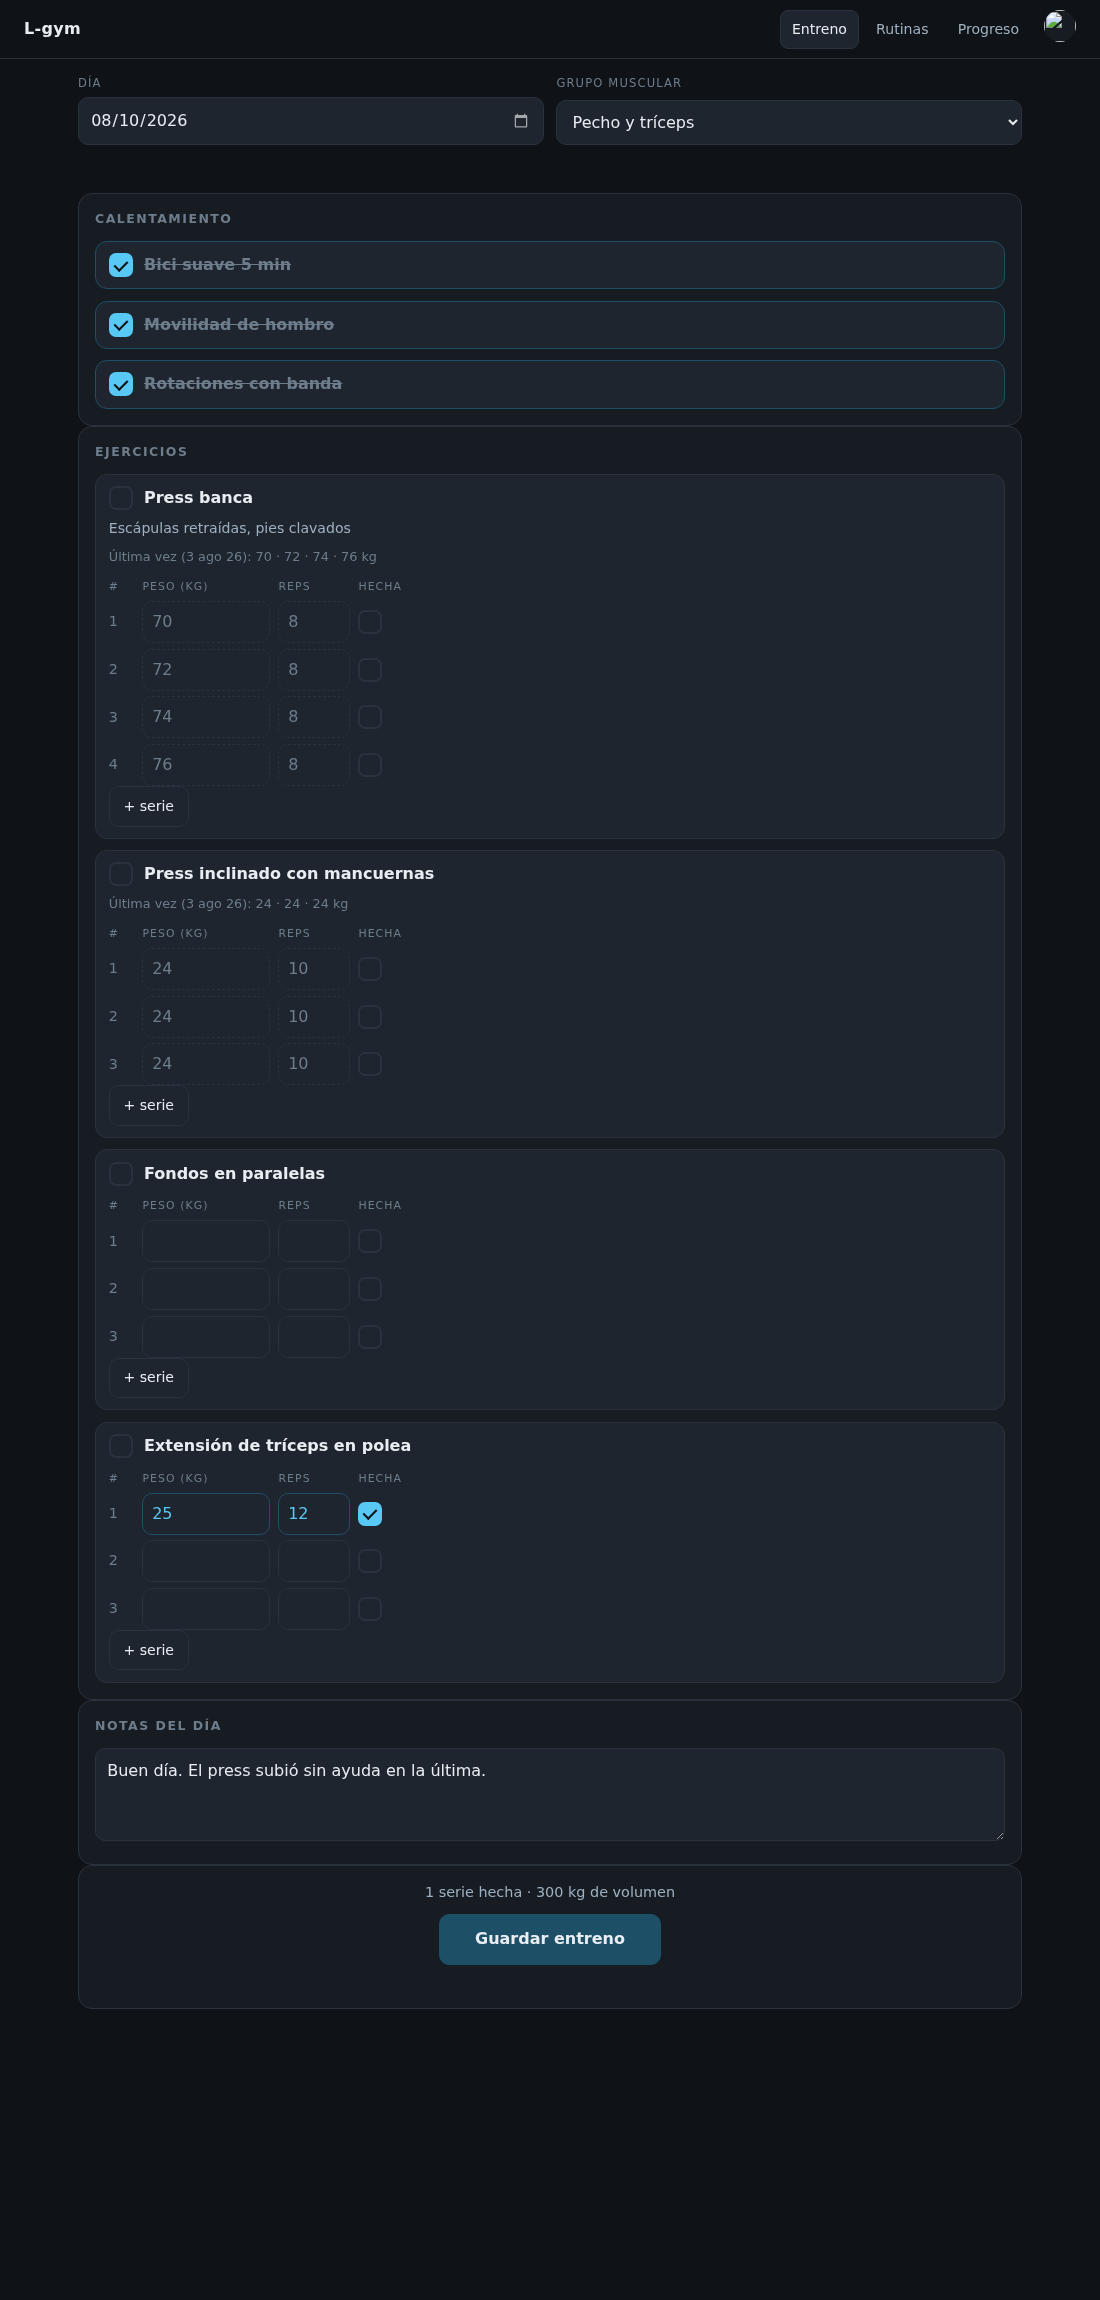
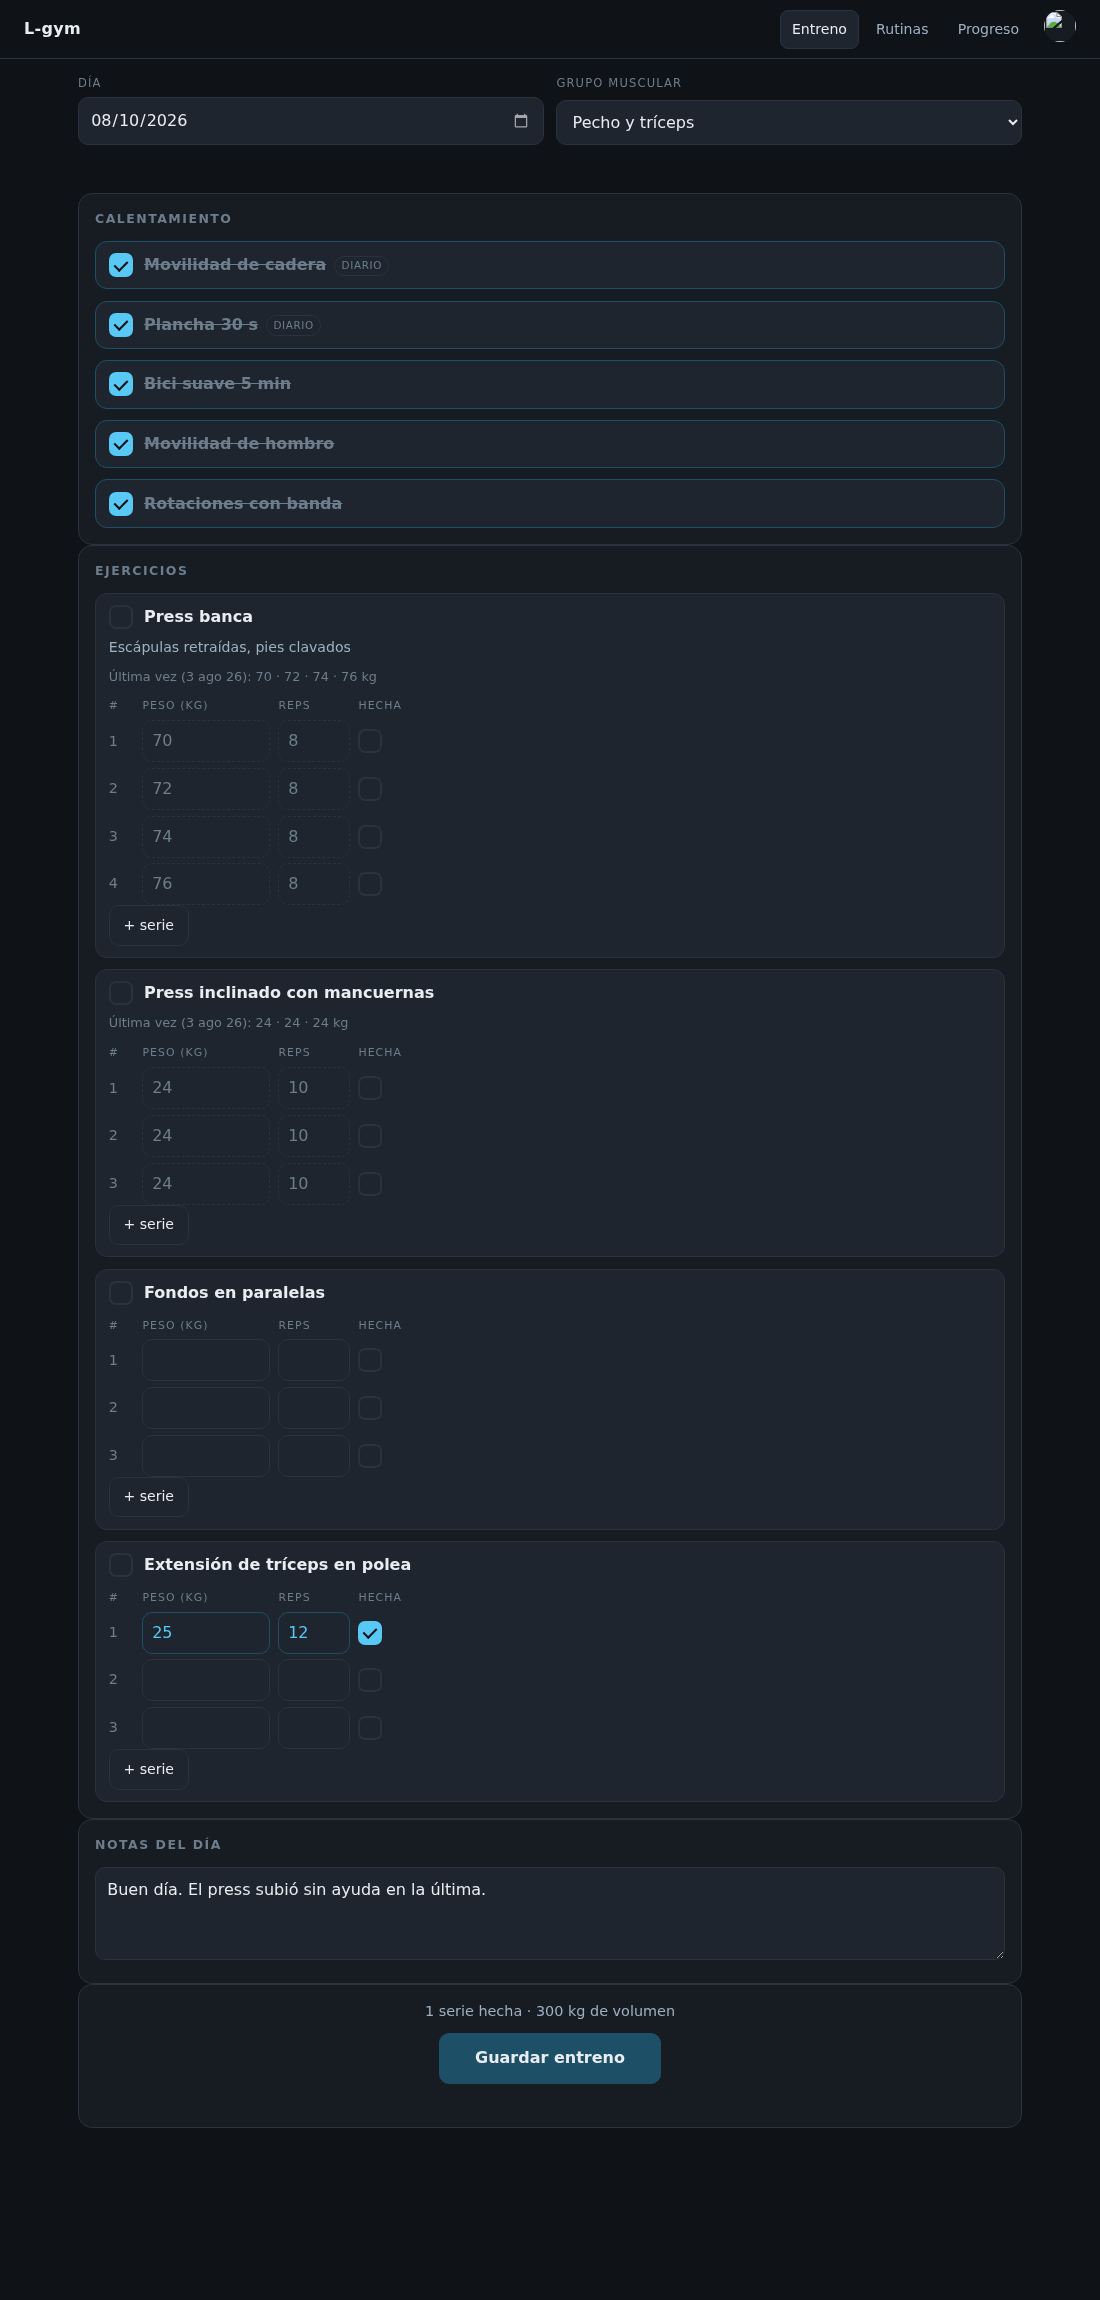
v1.5.0 — calentamiento diario, el que se repite en todos los grupos
Se configura una vez en Rutinas y sale al principio del calentamiento de cada
grupo, antes del suyo propio.

POR DENTRO ES UN GRUPO MÁS, con diario = 1 y fuera del listado. Así hereda tal
cual el editor, las fotos, las notas y el orden de los ejercicios, en vez de
una segunda tabla que hiciera exactamente lo mismo. Se crea solo la primera
vez que se pide la rutina, y la API se niega a borrarlo aunque la pantalla no
ofrezca el botón: no fiarse de que la pantalla no lo ofrezca.

MARCARLO VALE PARA TODO EL DÍA, no para una sesión. Quien entrene pecho por la
mañana y pierna por la tarde tiene que ver por la tarde que ya lo hizo, y no
volver a mirarse una lista de tres cosas preguntándose si las hizo. Las marcas
de los diarios se leen de cualquier sesión del mismo día con MAX(hecho).

En la pantalla de entreno llevan etiqueta: sin ella, ver los mismos tres
movimientos en todos los grupos parece un fallo. La etiqueta va en
inline-block porque la tachadura del nombre marcado se propaga a los hijos y
un text-decoration: none ahí no la quita; la especificación no lo permite.

diff --git a/basedatos.js b/basedatos.js
@@ -82,14 +82,37 @@ CREATE INDEX IF NOT EXISTS idx_series_ejercicio ON series (ejercicio_id);
 if (!db.prepare('PRAGMA table_info(sesiones)').all().some((c) => c.name === 'terminada')) {
   db.exec('ALTER TABLE sesiones ADD COLUMN terminada TEXT');
 }
+if (!db.prepare('PRAGMA table_info(grupos)').all().some((c) => c.name === 'diario')) {
+  db.exec('ALTER TABLE grupos ADD COLUMN diario INTEGER NOT NULL DEFAULT 0');
+}
 
 const ahora = () => new Date().toISOString();
 
 // ------------------------------------------------------------------ grupos
 
+// El del calentamiento diario queda fuera: no es un grupo que se elija, es el
+// que se cuela en todos los demás.
 const listarGrupos = (dueno) => db.prepare(
-  'SELECT * FROM grupos WHERE dueno = ? ORDER BY orden, nombre'
+  'SELECT * FROM grupos WHERE dueno = ? AND diario = 0 ORDER BY orden, nombre'
 ).all(dueno);
+
+/*
+ * El calentamiento diario, guardado como un grupo con diario = 1. Se crea la
+ * primera vez que se pregunta por él: así hereda el editor, las fotos y el
+ * orden de los ejercicios sin una segunda tabla que hiciera lo mismo.
+ *
+ * orden = -1 para que, si alguna consulta futura los mezcla, salga el primero.
+ */
+function grupoDiario(dueno) {
+  let g = db.prepare('SELECT * FROM grupos WHERE dueno = ? AND diario = 1').get(dueno);
+  if (!g) {
+    const r = db.prepare(
+      'INSERT INTO grupos (dueno, nombre, orden, creado, diario) VALUES (?, ?, -1, ?, 1)'
+    ).run(dueno, 'Calentamiento diario', ahora());
+    g = db.prepare('SELECT * FROM grupos WHERE id = ?').get(r.lastInsertRowid);
+  }
+  return g;
+}
 
 function crearGrupo(dueno, nombre) {
   const orden = db.prepare(
@@ -182,6 +205,25 @@ function sesionDe(dueno, fecha, grupoId) {
 
 const marcasDe = (sesionId) =>
   db.prepare('SELECT ejercicio_id, hecho FROM marcas WHERE sesion_id = ?').all(sesionId);
+
+/*
+ * Marcas de unos ejercicios en CUALQUIER sesión del mismo día.
+ *
+ * El calentamiento diario se hace una vez, no una por grupo. Quien entrene
+ * pecho por la mañana y pierna por la tarde tiene que ver por la tarde que ya
+ * lo hizo, y no volver a mirarse una lista de tres cosas preguntándose si las
+ * hizo. MAX(hecho) porque basta con haberlo marcado en una.
+ */
+function marcasDelDia(dueno, fecha, ids) {
+  if (!ids.length) return [];
+  const huecos = ids.map(() => '?').join(',');
+  return db.prepare(`
+    SELECT m.ejercicio_id, MAX(m.hecho) AS hecho
+    FROM marcas m JOIN sesiones s ON s.id = m.sesion_id
+    WHERE s.dueno = ? AND s.fecha = ? AND m.ejercicio_id IN (${huecos})
+    GROUP BY m.ejercicio_id
+  `).all(dueno, fecha, ...ids);
+}
 
 const seriesDe = (sesionId) => db.prepare(
   'SELECT ejercicio_id, numero, peso, repeticiones, hecho FROM series WHERE sesion_id = ? ORDER BY numero'
@@ -301,10 +343,11 @@ const records = (dueno) => db.prepare(`
 
 module.exports = {
   db,
-  listarGrupos, crearGrupo, grupo, renombrarGrupo, borrarGrupo,
+  listarGrupos, crearGrupo, grupo, renombrarGrupo, borrarGrupo, grupoDiario,
   listarEjercicios, ejercicio, crearEjercicio, editarEjercicio,
   ponerImagen, borrarEjercicio, moverEjercicio,
-  sesionDe, marcasDe, seriesDe, marcar, guardarSerie, quitarSerie, guardarNotas, terminar, ultimaVezDe,
+  sesionDe, marcasDe, marcasDelDia, seriesDe, marcar, guardarSerie, quitarSerie,
+  guardarNotas, terminar, ultimaVezDe,
   historial, progresoDe, resumen, records,
 };
 

diff --git a/servidor.js b/servidor.js
@@ -74,9 +74,11 @@ app.post('/salir', (req, res) => {
 
 app.get('/api/rutina', (req, res) => {
   const grupos = bd.listarGrupos(quien(req));
+  const d = bd.grupoDiario(quien(req));
   res.json({
     hoy: hoy(),
     usuario: req.sesion.nombre,
+    diario: { ...d, ejercicios: bd.listarEjercicios(d.id) },
     grupos: grupos.map((g) => ({ ...g, ejercicios: bd.listarEjercicios(g.id) })),
   });
 });
@@ -97,6 +99,11 @@ app.patch('/api/grupos/:id', (req, res) => {
 });
 
 app.delete('/api/grupos/:id', (req, res) => {
+  // El del calentamiento diario no se borra: la pantalla no ofrece el botón,
+  // pero la ruta no debería fiarse de eso.
+  const g = bd.grupo(quien(req), Number(req.params.id));
+  if (g && g.diario) return res.status(400).json({ error: 'no-se-borra' });
+
   if (!bd.borrarGrupo(quien(req), Number(req.params.id))) {
     return res.status(404).json({ error: 'no-existe' });
   }
@@ -199,7 +206,25 @@ app.get('/api/sesion', (req, res) => {
   if (!g) return res.status(404).json({ error: 'grupo' });
 
   const s = bd.sesionDe(quien(req), fecha, grupoId);
-  const ejercicios = bd.listarEjercicios(grupoId);
+
+  /*
+   * El calentamiento diario va por delante del propio del grupo, y marcado
+   * como tal para que la pantalla pueda decir de dónde sale sin deducirlo del
+   * id del grupo. Solo se cuelan los de tipo calentamiento: si algún día se
+   * mete un ejercicio con series ahí dentro, no tiene sentido repetirlo.
+   */
+  const d = bd.grupoDiario(quien(req));
+  const diarios = bd.listarEjercicios(d.id)
+    .filter((e) => e.tipo === 'calentamiento')
+    .map((e) => ({ ...e, diario: 1 }));
+  const ejercicios = [...diarios, ...bd.listarEjercicios(grupoId)];
+
+  // Para los diarios manda lo del día entero, no lo de esta sesión.
+  const idsDiarios = diarios.map((e) => e.id);
+  const enDiarios = new Set(idsDiarios);
+  const marcas = bd.marcasDe(s.id)
+    .filter((m) => !enDiarios.has(m.ejercicio_id))
+    .concat(bd.marcasDelDia(quien(req), fecha, idsDiarios));
 
   // Lo de la última vez, para proponerlo de partida. Va aparte de `series` a
   // propósito: es una sugerencia, no algo guardado, y no debe contar en el
@@ -215,7 +240,7 @@ app.get('/api/sesion', (req, res) => {
     sesion: s,
     grupo: g,
     ejercicios,
-    marcas: bd.marcasDe(s.id),
+    marcas,
     series: bd.seriesDe(s.id),
     ultimaVez,
   });

diff --git a/public/guion.js b/public/guion.js
@@ -195,6 +195,9 @@ function filaCalentamiento(e) {
   }));
   if (e.notas) li.append(crear('p', 'mov-notas', e.notas));
   li.classList.toggle('hecho', marcaDe(e.id));
+  // Los de la rutina diaria se distinguen: si no, no se entiende por qué
+  // aparecen los mismos tres movimientos en todos los grupos.
+  li.classList.toggle('diario', Boolean(e.diario));
   return li;
 }
 
@@ -318,12 +321,31 @@ function pintarEditor() {
   cont.replaceChildren();
   if (!estado.rutina) return;
 
+  if (estado.rutina.diario) cont.append(bloqueDiario(estado.rutina.diario));
+
   if (!estado.rutina.grupos.length) {
     cont.append(crear('p', 'nota', 'Todavía no hay grupos. Crea el primero arriba.'));
     return;
   }
 
   estado.rutina.grupos.forEach((g) => cont.append(bloqueGrupo(g)));
+}
+
+/*
+ * El calentamiento de todos los días. Por dentro es un grupo, pero aquí no se
+ * renombra ni se borra: no es "uno más", es el que se cuela en los demás.
+ */
+function bloqueDiario(g) {
+  const sec = crear('section', 'grupo grupo-diario');
+
+  const cab = crear('header', 'grupo-cabecera');
+  cab.append(crear('h2', 'grupo-nombre', 'Calentamiento diario'));
+  sec.append(cab);
+
+  sec.append(crear('p', 'nota',
+    'Sale al principio del calentamiento de todos los grupos, antes del suyo propio.'));
+  sec.append(subLista(g, 'calentamiento', 'Movimientos'));
+  return sec;
 }
 
 function bloqueGrupo(g) {

diff --git a/public/estilo.css b/public/estilo.css
@@ -335,6 +335,31 @@ input[type=checkbox]:checked::after { transform: rotate(45deg) scale(1); }
 }
 .mov-nombre { font-weight: 600; }
 
+/* De dónde sale este calentamiento. Sin la etiqueta, ver los mismos tres
+   movimientos en todos los grupos parece un fallo. */
+.mov.diario .mov-nombre::after {
+  content: 'diario';
+  margin-left: .5rem;
+  padding: .1rem .4rem;
+  border: 1px solid var(--linea);
+  border-radius: 999px;
+  font-size: .65rem;
+  font-weight: 400;
+  letter-spacing: .06em;
+  text-transform: uppercase;
+  color: var(--tinta-3);
+  vertical-align: .1em;
+  /* Al marcar, el nombre se tacha, y la tachadura se propaga a los hijos: un
+     `text-decoration: none` aquí NO la quita, la especificación no lo permite.
+     Lo que sí funciona es sacar la etiqueta del flujo de texto haciéndola
+     inline-block; entonces es una caja atómica y la raya no la cruza. */
+  display: inline-block;
+}
+
+/* El bloque del editor, marcado por el lado para que no se confunda con un
+   grupo muscular más de la lista. */
+.grupo-diario { border-left: 3px solid var(--acento-apagado); }
+
 .mov-foto {
   width: 52px;
   height: 52px;

diff --git a/README.md b/README.md
@@ -67,6 +67,25 @@ Todo lo pulsable comparte el mismo anillo de foco y se hunde un píxel al
 pulsarlo: en el móvil, sin hover, es la única señal de que el toque ha
 entrado.
 
+## El calentamiento diario
+
+Aparte del calentamiento propio de cada grupo hay uno **diario**: se configura
+una vez en Rutinas y sale al principio de todos los grupos, antes del suyo.
+
+Por dentro **es un grupo más**, con la marca `diario = 1` y fuera del listado.
+Así hereda tal cual el editor, las fotos, las notas y el orden de los
+ejercicios, en vez de una segunda tabla que hiciera exactamente lo mismo. Se
+crea solo la primera vez que se pide la rutina, y la API se niega a borrarlo
+aunque la pantalla no ofrezca el botón.
+
+**Marcarlo vale para todo el día, no para una sesión.** Quien entrene pecho
+por la mañana y pierna por la tarde ve por la tarde que ya lo hizo. Las marcas
+de los diarios se leen de cualquier sesión del mismo día con `MAX(hecho)`, en
+vez de la sesión que se esté mirando.
+
+En la pantalla de entreno llevan una etiqueta *diario*: sin ella, ver los
+mismos tres movimientos en todos los grupos parece un fallo.
+
 ## El menú de la foto
 
 La foto de perfil de la barra **es** el botón del menú. No hay tres rayas al
@@ -134,7 +153,8 @@ una sesión ya cerrada.
 ## Datos
 
 ```
-grupos      un grupo muscular, por dueño
+grupos      un grupo muscular, por dueño; `diario = 1` marca el que lleva
+            el calentamiento de todos los días y no se lista
 ejercicios  del grupo; tipo = calentamiento | ejercicio; con foto opcional
 sesiones    un día + un grupo (única por dueño, fecha y grupo);
             `terminada` guarda cuándo se cerró, o null si sigue abierta
